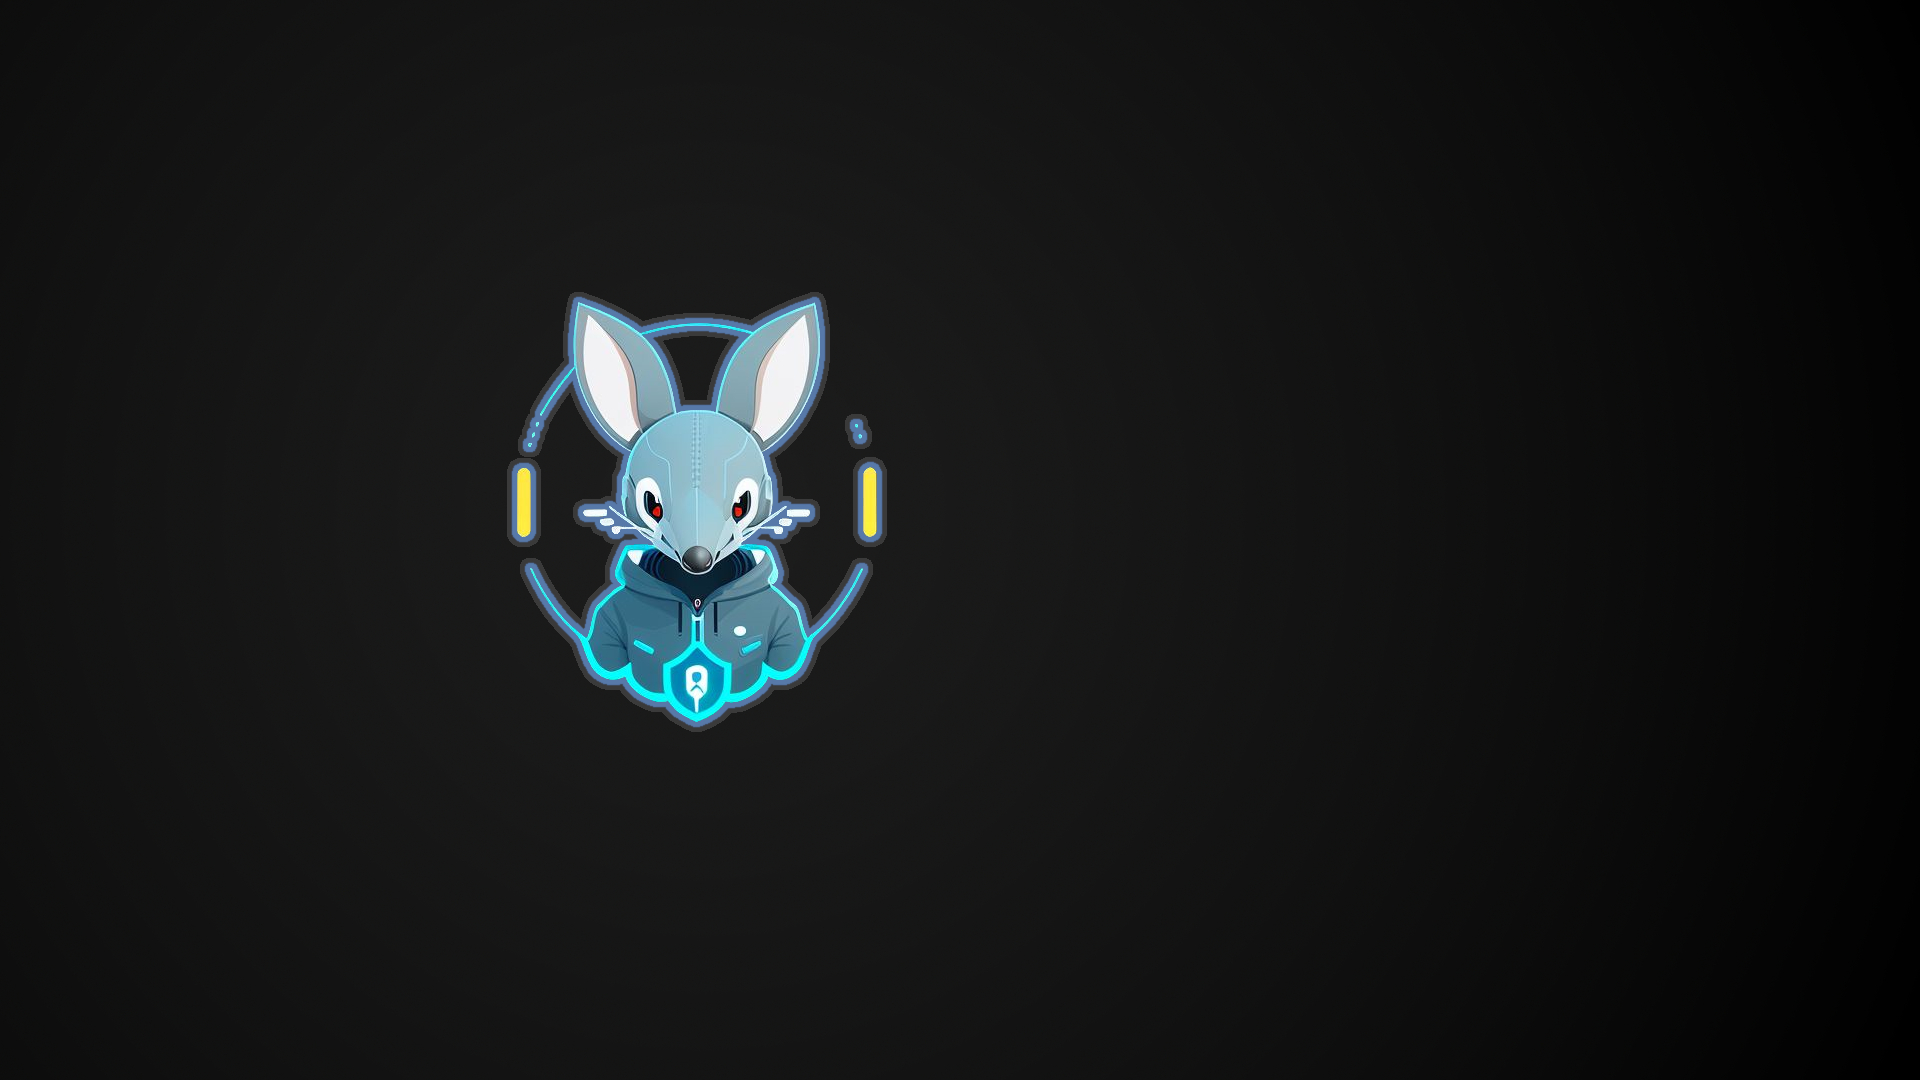
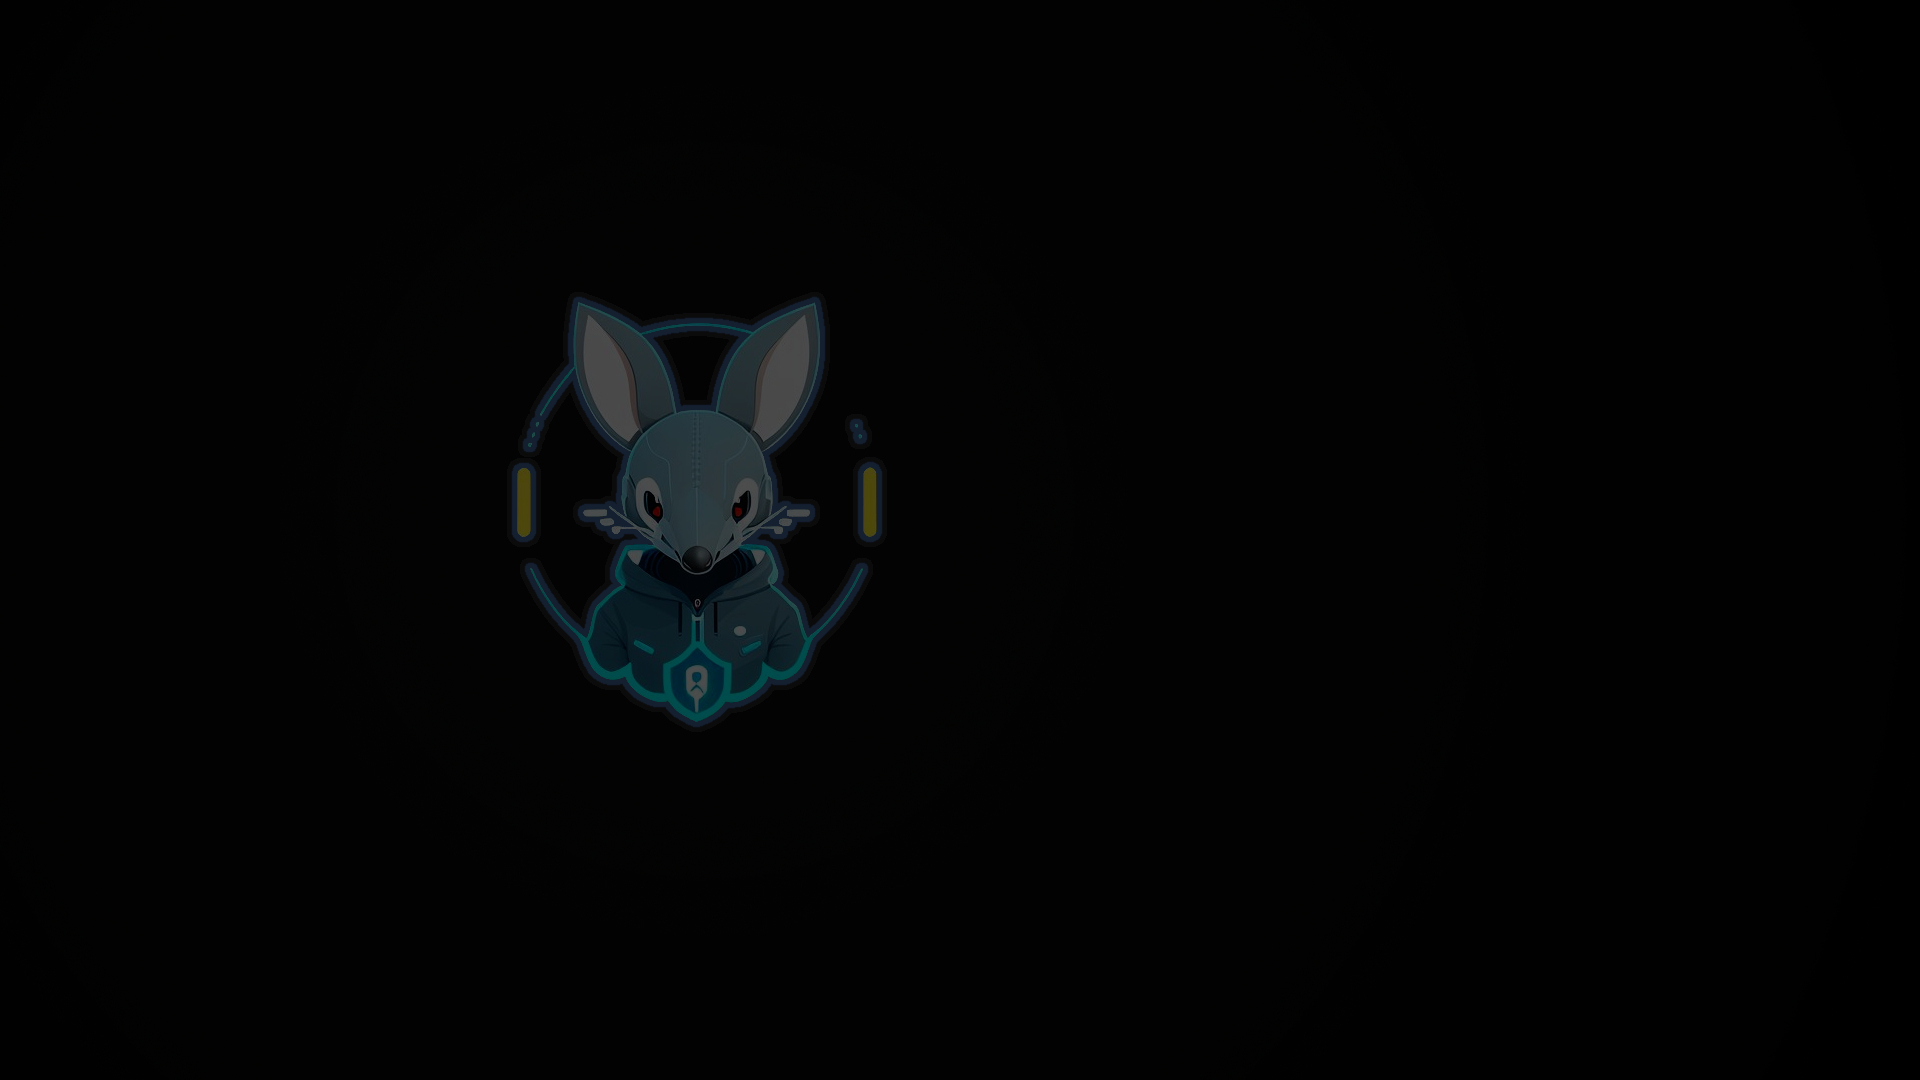
Improved image gallery overlay.

Changed region(s): [[0.25, 0.275, 0.4688, 0.6722]]

diff --git a/app/components/Project.vue b/app/components/Project.vue
@@ -14,6 +14,7 @@ interface GalleryImage {
 const project = props.project;
 const images = props.project.resources.filter(r => r.type == "image").map(r => ({
 	item: r.href,
+	desc: r.description,
 	thumbnail: r.href
 } as GalleryImage));
 
@@ -58,16 +59,19 @@ const imageClick = (index: number) => {
 			<h2>Resources</h2>
 			<div class="resources">
 				<Galleria v-model:active-index="activeIndex" :value="images" :num-visible="5" 
-							v-model:visible="displayCustom" :circular="true" :fullScreen="true" :showItemNavigators="true" :showThumbnails="false"
-							containerStyle="max-width: 850px">
+							v-model:visible="displayCustom" :circular="true" :fullScreen="true" :showItemNavigators="true" :showThumbnails="false">
 					<template #item="slotProps">
-						<img :src="slotProps.item.item" :alt="slotProps.item.alt" style="width: 100%; display: block" />
+						<img :src="slotProps.item.item" :alt="slotProps.item.alt" class="overlay-image">
+							<div class="overlay-description">
+								{{ slotProps.item.desc }}
+							</div>
+						</img>
 					</template>
 				</Galleria>
 
 				<div v-if="images" class="images">
-					<div v-for="(image, index) of images" :key="index" class="col-span-4">
-						<img :src="image.thumbnail" style="cursor: pointer; max-width: 256px" @click="imageClick(index)" />
+					<div v-for="(image, index) of images" :key="index">
+						<img class="image" :src="image.thumbnail" style="cursor: pointer; max-width: 256px" @click="imageClick(index)" />
 					</div>
 				</div>
 
@@ -85,6 +89,25 @@ const imageClick = (index: number) => {
 	display: grid;
 	grid-template-columns: 12;
 	gap: 4px;
+}
+.image {
+	border-radius: 15px;
+}
+.overlay-image {
+	border: 3px solid rgba(255, 255, 255, 0.25);
+	object-fit: contain;
+	max-height: 512px;
+}
+.overlay-description {
+	position: absolute;
+
+	bottom: 0;
+	left: 0;
+
+	width: 100%;
+	padding: 1rem;
+
+	background-color: rgba(0, 0, 0, 0.5);
 }
 
 .back {

diff --git a/app/assets/global.css b/app/assets/global.css
@@ -17,8 +17,6 @@ body {
 	background-size: cover;
 	background-attachment: fixed;
 
-	backdrop-filter: brightness(15%);
-
 	overflow-x: hidden;
 	margin: 0;
 }
